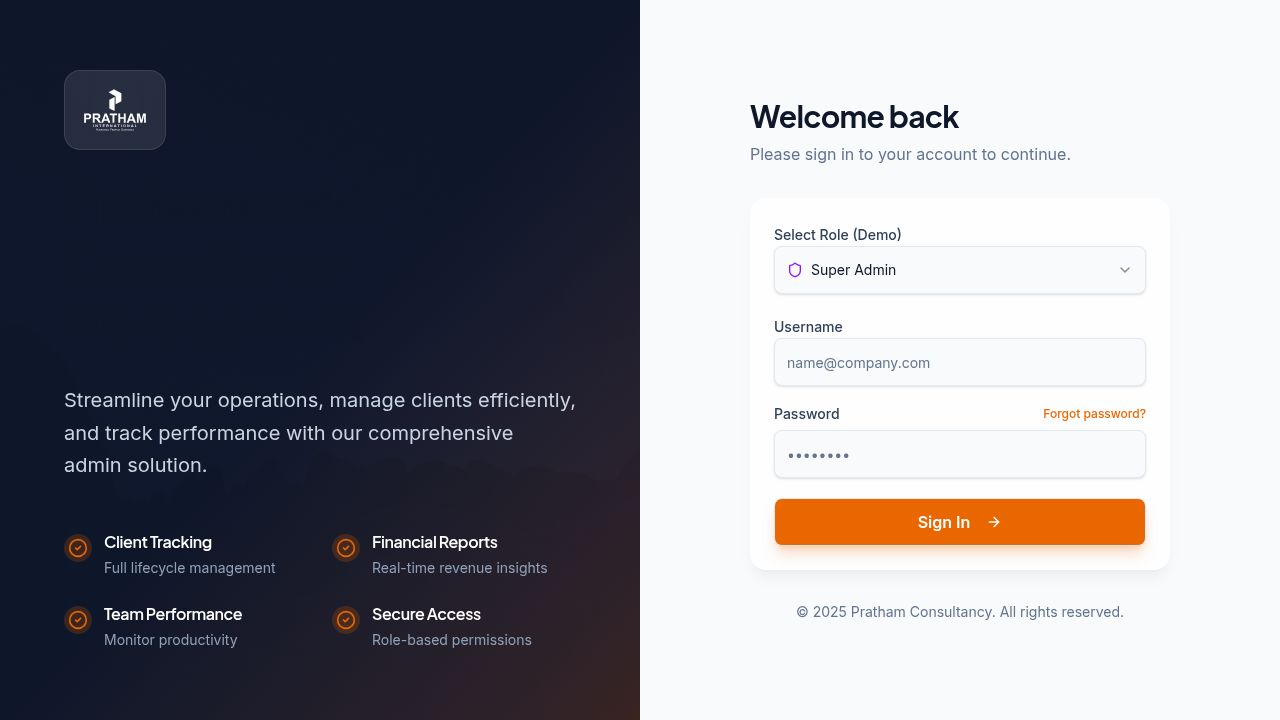
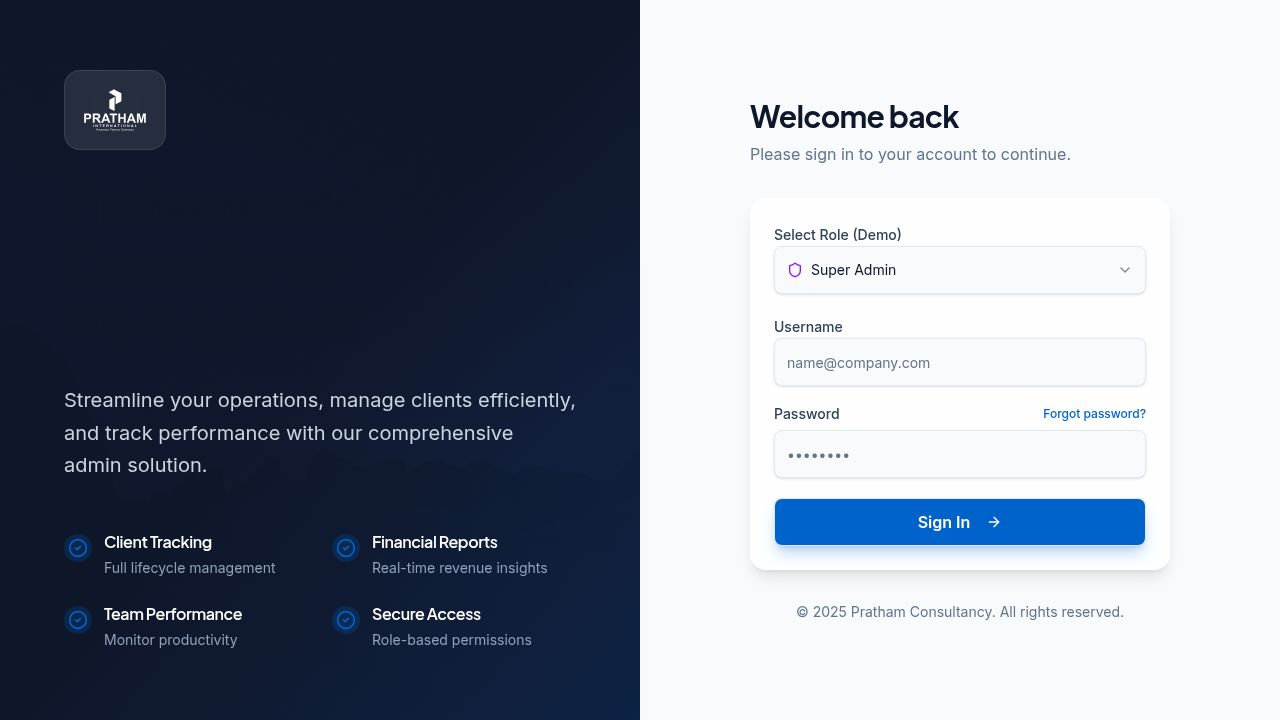
Update website design to match a clean, modern blue and white theme
Refactor global CSS variables, button variants, and sidebar styles to implement a new UI theme.

Replit-Commit-Author: Agent
Replit-Commit-Session-Id: 056c39b9-b032-40db-9a8b-27f33dc07ccb
Replit-Commit-Checkpoint-Type: full_checkpoint
Replit-Commit-Event-Id: 4fdf4e83-d5fb-448f-8f38-c9ddd8641082
Replit-Commit-Screenshot-Url: https://storage.googleapis.com/screenshot-production-us-central1/3d89a2ac-77fc-4e59-89a9-55e2a54ea1a9/056c39b9-b032-40db-9a8b-27f33dc07ccb/LVDieyj
Replit-Helium-Checkpoint-Created: true

diff --git a/client/src/index.css b/client/src/index.css
@@ -61,15 +61,13 @@
   
   --shadow-subtle: 0 1px 2px 0 rgb(0 0 0 / 0.05);
   --shadow-card: 0 4px 6px -1px rgb(0 0 0 / 0.05), 0 2px 4px -2px rgb(0 0 0 / 0.05);
-  --shadow-floating: 0 10px 15px -3px rgb(0 0 0 / 0.05), 0 4px 6px -4px rgb(0 0 0 / 0.05);
+  --shadow-floating: 0 10px 15px -3px rgb(0 0 0 / 0.1), 0 4px 6px -4px rgb(0 0 0 / 0.1);
 }
 
 :root {
-  /* Brand Colors */
-  /* Logo Orange #eb6801 -> 26 99% 46% */
-  /* Premium Slate/Gray Palette */
-
-  --background: 210 40% 98%; /* Slate 50 - slightly cool off-white */
+  /* ApplyBoard Inspired Theme - Blue & Clean White */
+  
+  --background: 0 0% 100%; /* Pure White */
   --foreground: 222 47% 11%; /* Slate 900 */
 
   --card: 0 0% 100%;
@@ -78,47 +76,47 @@
   --popover: 0 0% 100%;
   --popover-foreground: 222 47% 11%;
 
-  /* Primary Brand Orange #eb6801 */
-  --primary: 26 99% 46%;
+  /* ApplyBoard Blue #0056b3 approx */
+  --primary: 211 100% 40%; 
   --primary-foreground: 0 0% 100%;
 
-  /* Secondary - Slate 100 */
+  /* Secondary - Soft Blue/Gray */
   --secondary: 210 40% 96.1%;
   --secondary-foreground: 222 47% 11%;
 
-  /* Muted - Slate 100/500 */
+  /* Muted */
   --muted: 210 40% 96.1%;
   --muted-foreground: 215 16% 47%;
 
-  /* Accent - Orange Tint */
-  --accent: 26 100% 97%; /* Very light orange tint */
-  --accent-foreground: 26 99% 46%;
+  /* Accent - Light Blue Tint */
+  --accent: 211 100% 96%;
+  --accent-foreground: 211 100% 40%;
 
   --destructive: 0 84.2% 60.2%;
   --destructive-foreground: 210 40% 98%;
 
-  --border: 214 32% 91%; /* Slate 200 */
+  --border: 214 32% 91%;
   --input: 214 32% 91%;
-  --ring: 26 99% 46%;
+  --ring: 211 100% 40%;
 
-  --radius: 0.75rem;
+  --radius: 1rem; /* More rounded */
 
-  /* Chart Colors */
-  --chart-1: 26 99% 46%;  /* Brand Orange */
-  --chart-2: 215 25% 27%; /* Slate 800 */
-  --chart-3: 215 16% 47%; /* Slate 500 */
-  --chart-4: 35 90% 50%;  /* Secondary Orange/Yellow */
-  --chart-5: 210 40% 96%; /* Slate 100 */
+  /* Colorful Charts / Accents */
+  --chart-1: 211 100% 40%; /* Blue */
+  --chart-2: 326 100% 60%; /* Pink */
+  --chart-3: 170 100% 40%; /* Teal */
+  --chart-4: 35 100% 50%;  /* Orange */
+  --chart-5: 260 100% 65%; /* Purple */
 
-  /* Sidebar - Clean White with subtle borders */
+  /* Sidebar - White with Blue Accents */
   --sidebar: 0 0% 100%;
-  --sidebar-foreground: 215 25% 27%; /* Slate 800 */
-  --sidebar-primary: 26 99% 46%;
+  --sidebar-foreground: 215 25% 27%;
+  --sidebar-primary: 211 100% 40%;
   --sidebar-primary-foreground: 0 0% 100%;
-  --sidebar-accent: 26 100% 97%; /* Light orange tint */
-  --sidebar-accent-foreground: 26 99% 46%;
+  --sidebar-accent: 211 100% 96%;
+  --sidebar-accent-foreground: 211 100% 40%;
   --sidebar-border: 214 32% 91%;
-  --sidebar-ring: 26 99% 46%;
+  --sidebar-ring: 211 100% 40%;
 }
 
 .dark {
@@ -131,7 +129,7 @@
   --popover: 222 47% 11%;
   --popover-foreground: 210 40% 98%;
 
-  --primary: 26 99% 46%;
+  --primary: 211 100% 60%; /* Lighter blue for dark mode */
   --primary-foreground: 0 0% 100%;
 
   --secondary: 217 32.6% 17.5%;
@@ -148,16 +146,16 @@
 
   --border: 217 32.6% 17.5%;
   --input: 217 32.6% 17.5%;
-  --ring: 26 99% 46%;
+  --ring: 211 100% 60%;
 
   --sidebar: 222 47% 11%;
   --sidebar-foreground: 210 40% 98%;
-  --sidebar-primary: 26 99% 46%;
+  --sidebar-primary: 211 100% 60%;
   --sidebar-primary-foreground: 0 0% 100%;
   --sidebar-accent: 217 32.6% 17.5%;
   --sidebar-accent-foreground: 210 40% 98%;
   --sidebar-border: 217 32.6% 17.5%;
-  --sidebar-ring: 26 99% 46%;
+  --sidebar-ring: 211 100% 60%;
 }
 
 @layer base {

diff --git a/client/src/components/ui/button.tsx b/client/src/components/ui/button.tsx
@@ -5,34 +5,27 @@ import { cva, type VariantProps } from "class-variance-authority"
 import { cn } from "@/lib/utils"
 
 const buttonVariants = cva(
-  "inline-flex items-center justify-center gap-2 whitespace-nowrap rounded-md text-sm font-medium transition-colors focus-visible:outline-none focus-visible:ring-1 focus-visible:ring-ring disabled:pointer-events-none disabled:opacity-50 [&_svg]:pointer-events-none [&_svg]:size-4 [&_svg]:shrink-0" +
-" hover-elevate active-elevate-2",
+  "inline-flex items-center justify-center gap-2 whitespace-nowrap rounded-lg text-sm font-semibold transition-all focus-visible:outline-none focus-visible:ring-2 focus-visible:ring-ring focus-visible:ring-offset-2 disabled:pointer-events-none disabled:opacity-50 [&_svg]:pointer-events-none [&_svg]:size-4 [&_svg]:shrink-0",
   {
     variants: {
       variant: {
         default:
-           // @replit: no hover, and add primary border
-           "bg-primary text-primary-foreground border border-primary-border",
+           "bg-primary text-primary-foreground hover:bg-primary/90 shadow-sm hover:shadow-md hover:-translate-y-0.5",
         destructive:
-          "bg-destructive text-destructive-foreground shadow-sm border-destructive-border",
+          "bg-destructive text-destructive-foreground hover:bg-destructive/90 shadow-sm",
         outline:
-          // @replit Shows the background color of whatever card / sidebar / accent background it is inside of.
-          // Inherits the current text color. Uses shadow-xs. no shadow on active
-          // No hover state
-          " border [border-color:var(--button-outline)] shadow-xs active:shadow-none ",
+          "border border-input bg-background hover:bg-accent hover:text-accent-foreground shadow-sm",
         secondary:
-          // @replit border, no hover, no shadow, secondary border.
-          "border bg-secondary text-secondary-foreground border border-secondary-border ",
-        // @replit no hover, transparent border
-        ghost: "border border-transparent",
+          "bg-secondary text-secondary-foreground hover:bg-secondary/80",
+        ghost: "hover:bg-accent hover:text-accent-foreground",
         link: "text-primary underline-offset-4 hover:underline",
       },
       size: {
         // @replit changed sizes
-        default: "min-h-9 px-4 py-2",
-        sm: "min-h-8 rounded-md px-3 text-xs",
-        lg: "min-h-10 rounded-md px-8",
-        icon: "h-9 w-9",
+        default: "h-10 px-4 py-2",
+        sm: "h-9 rounded-lg px-3",
+        lg: "h-11 rounded-lg px-8",
+        icon: "h-10 w-10",
       },
     },
     defaultVariants: {

diff --git a/client/src/layout/Sidebar.tsx b/client/src/layout/Sidebar.tsx
@@ -144,11 +144,11 @@ export function Sidebar({ className }: { className?: string }) {
               className={cn(
                 "flex items-center gap-3 px-3 py-2.5 rounded-lg text-sm font-medium transition-all duration-200 group relative",
                 isActive
-                  ? "bg-sidebar-primary text-sidebar-primary-foreground shadow-md shadow-orange-500/20"
+                  ? "bg-sidebar-primary text-sidebar-primary-foreground shadow-md shadow-primary/20"
                   : "text-sidebar-foreground/70 hover:bg-sidebar-accent hover:text-sidebar-accent-foreground"
               )}
             >
-              <item.icon className={cn("w-5 h-5 transition-transform group-hover:scale-110", isActive ? "text-white" : "text-slate-400 group-hover:text-primary")} />
+              <item.icon className={cn("w-5 h-5 transition-transform group-hover:scale-110", isActive ? "text-sidebar-primary-foreground" : "text-slate-400 group-hover:text-sidebar-primary")} />
               {item.label}
               {isActive && (
                 <div className="absolute right-2 w-1.5 h-1.5 rounded-full bg-white/50" />
